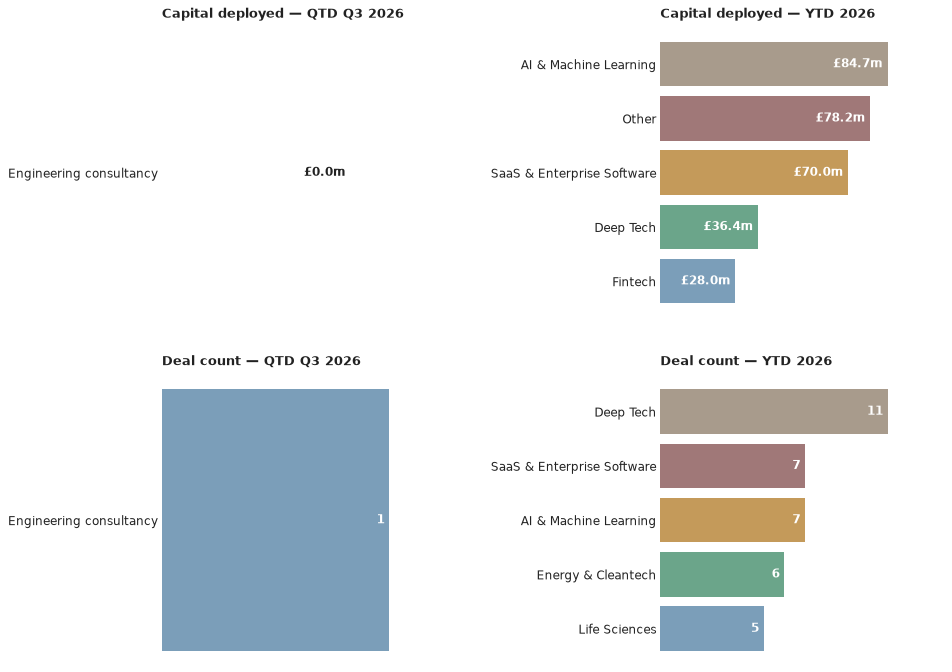
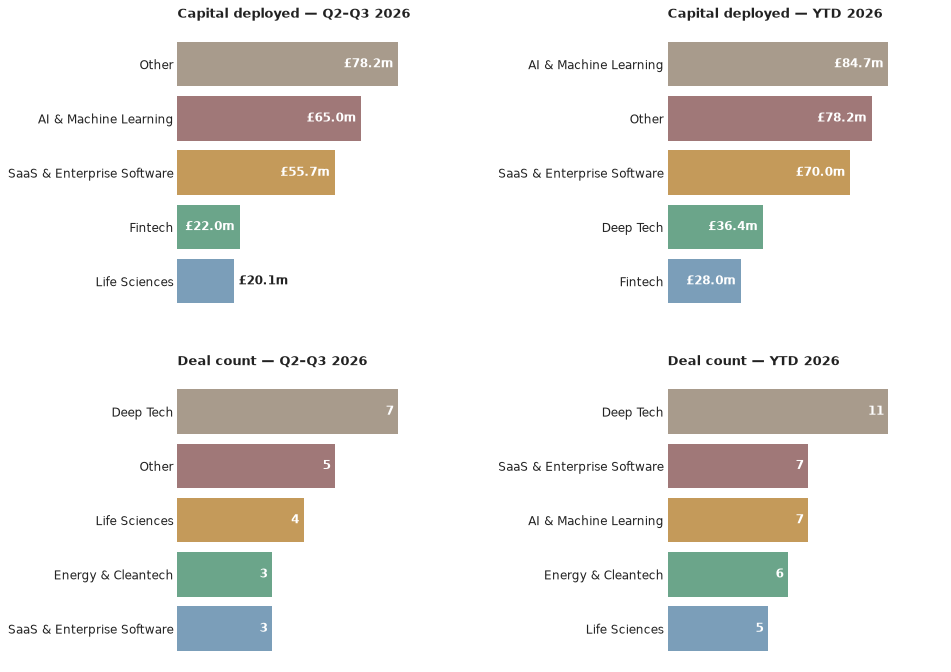
Weekly report: 2026-07-27 (Q2-Q3 combined chart)

diff --git a/docs/index.html b/docs/index.html
@@ -59,23 +59,23 @@
 <p>So when a VC is looking at a startup, they care about the problem, the product, the total addressable market, and all of that stuff you've put in your pitch decks. They care more about the people who are going to drive the company forward and make it grow. That's you, as founder, and it's the rest of the team too, especially anyone holding equity. They're going to ask themselves if you're the person that's going to turn this problem into a high-growth business. They're going to ask why you started the company, and what makes you the person who's going to succeed where others have failed. In short, they're asking themselves if they trust you with the money they're responsible for.</p>
 <p>Last week I made the point that entrepreneurs need to be careful when choosing an investor because it's a long-term partnership with real consequences. That cuts both ways.</p>
 <p>/* Morrison, Ben, George Buckle, and British Business Bank Economics Team. UK Venture Capital Financial Returns 2025. Annual report. British Business Bank, 2025.</p>
-<h2>1. What We Found This Week</h2>
+<h2>What We Found This Week</h2>
 <p>Here are the deals we saw reported in the press this week, ordered by the announcement date.</p>
 <div class="deal-block">
 <p><strong>Xburo UK</strong> took on an undisclosed growth investment from Chiltern Capital, announced 23 July 2026.</p>
 <p class="deal-source"><em>Source: <a href="https://www.heraldscotland.com/news/26403951.glasgow-firm-xburo-reveals-uk-hopes-investment-deal/?ref=rss">The Herald</a></em></p>
 </div>
-<h2>2. The Numbers</h2>
+<h2>The Numbers</h2>
 <p>Q3 2026 stands at <strong>1 deal</strong> so far — Xburo UK's undisclosed growth investment from Chiltern Capital — taking the year to date to <strong>35 deals worth £159.6m</strong>. That's one more deal in both the quarter and year-to-date count than last week's issue, with no change to confirmed capital since the round's amount wasn't disclosed.</p>
-<p><img src="charts/2026-07-27_stage.png" alt="Deals by stage — this quarter" class="report-img"></p>
-<p><img src="charts/2026-07-27_sector.png" alt="Deals by sector — this quarter" class="report-img"></p>
+<p><img src="charts/2026-07-27_stage.png" alt="Deals by stage — Q2–Q3 2026" class="report-img"></p>
+<p><img src="charts/2026-07-27_sector.png" alt="Deals by sector — Q2–Q3 2026" class="report-img"></p>
 <p>Chiltern Capital is the only investor behind a Scottish deal so far this quarter, backing Xburo UK — it's early days for Q3, with just the one deal on the board: a Glasgow-based engineering consultancy raise.</p>
-<h2>3. Deal Spotlight</h2>
+<h2>Deal Spotlight</h2>
 <h3>Xburo UK — Growth — Undisclosed</h3>
 <p><strong>Lead investor</strong>: Chiltern Capital · <strong>Co-investors</strong>: none named · <strong>Sector</strong>: Engineering consultancy · <strong>Location</strong>: Glasgow</p>
 <p>Xburo UK is a mechanical, electrical and public health (MEPH) engineering consultancy founded in 2018, operating from offices in Glasgow and Edinburgh and serving more than 60 clients. London private investment firm Chiltern Capital has backed the company to fund its expansion across the UK; the investment amount was not disclosed. Xburo called the deal a "clear statement of intent" as it targets becoming a leading national specialist in MEPH asset engineering, design and technical advisory.</p>
 <p>Source: <a href="https://www.heraldscotland.com/news/26403951.glasgow-firm-xburo-reveals-uk-hopes-investment-deal/?ref=rss">The Herald</a></p>
-<h2>4. Sources</h2>
+<h2>Sources</h2>
 <ul>
 <li><strong>Xburo UK</strong>: <a href="https://www.heraldscotland.com/news/26403951.glasgow-firm-xburo-reveals-uk-hopes-investment-deal/?ref=rss">The Herald</a></li>
 </ul>
